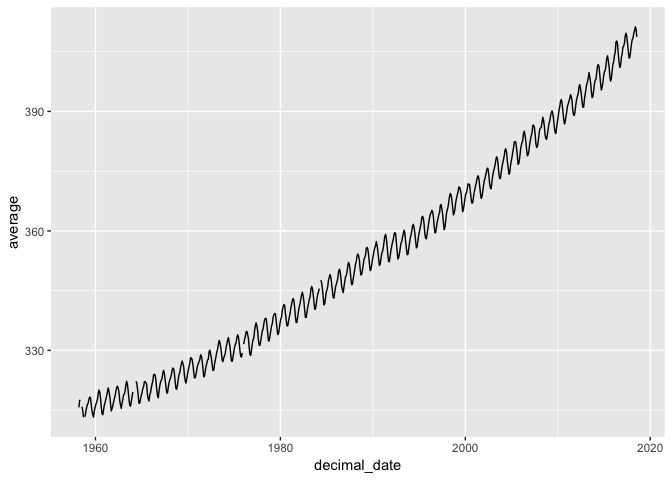
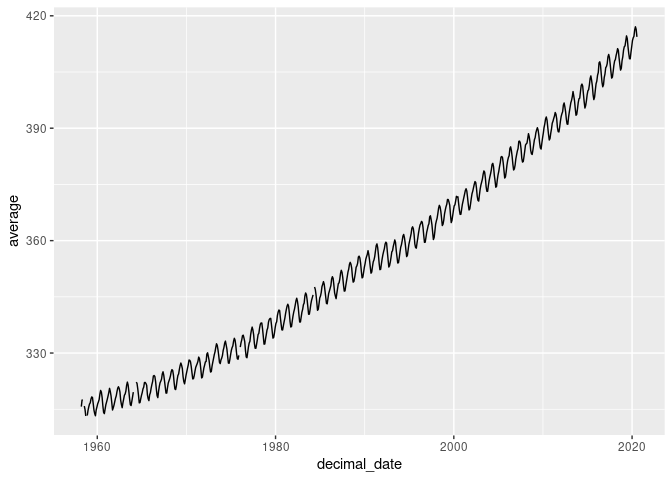
Try1

diff --git a/assignment/climate.md b/assignment/climate.md
@@ -18,7 +18,7 @@ library(tidyverse)
 
 ``` r
 co2 <- 
-read_table("ftp://aftp.cmdl.noaa.gov/products/trends/co2/co2_mm_mlo.txt", 
+read_table("https://raw.githubusercontent.com/espm-157/climate-template/master/assignment/co2_mm_mlo.txt", 
                   comment="#",
                   col_names = c("year", "month", "decimal_date", "average",
                                 "interpolated", "trend", "days"),
@@ -26,9 +26,9 @@ read_table("ftp://aftp.cmdl.noaa.gov/products/trends/co2/co2_mm_mlo.txt",
 co2
 ```
 
-    ## # A tibble: 725 x 7
+    ## # A tibble: 749 x 7
     ##     year month decimal_date average interpolated trend  days
-    ##    <int> <int>        <dbl>   <dbl>        <dbl> <dbl> <int>
+    ##    <dbl> <dbl>        <dbl>   <dbl>        <dbl> <dbl> <dbl>
     ##  1  1958     3        1958.    316.         316.  315.    NA
     ##  2  1958     4        1958.    317.         317.  315.    NA
     ##  3  1958     5        1958.    318.         318.  315.    NA
@@ -39,7 +39,7 @@ co2
     ##  8  1958    10        1959.     NA          313.  316.    NA
     ##  9  1958    11        1959.    313.         313.  315.    NA
     ## 10  1958    12        1959.    315.         315.  316.    NA
-    ## # ... with 715 more rows
+    ## # … with 739 more rows
 
 ``` r
 ggplot(co2, aes(x = decimal_date, y = average)) + geom_line() 
@@ -48,6 +48,20 @@ ggplot(co2, aes(x = decimal_date, y = average)) + geom_line()
 ![](climate_files/figure-gfm/unnamed-chunk-3-1.png)<!-- -->
 
 Which months are the CO2 values at the maximum? Minimum? Why is this?
+
+Maximum: 5, 6 Minimum Range 9, 10,
+
+Much of this variation happens because of the role of plants in the
+carbon cycle. Plants extract CO2 from the atmosphere, along with
+sunlight and water, to make food and other substances that they need to
+grow.CO2 in the atmosphere decreases during the growing season and
+increases during the rest of the year, which leads to maximum buildup in
+April and May before photosynthesis begins to take over in the summer
+time. Photosynthesis, in which plants take up CO2 from the atmosphere
+and release oxygen, dominates during the growing season (the warmer part
+of the year). Respiration, by which plants and animals take up oxygen
+and release CO2, occurs all the time but dominates during the colder
+months of the year.
 
 What rolling average is used in computing the “trend” line? How does the
 trend depend on the rolling average?
@@ -79,10 +93,51 @@ Construct the necessary R code to import and prepare for manipulation
 the following data set:
 <http://climate.nasa.gov/system/internal_resources/details/original/647_Global_Temperature_Data_File.txt>
 
+``` r
+temperature <- read_table(
+  "http://climate.nasa.gov/system/internal_resources/details/original/647_Global_Temperature_Data_File.txt",
+  skip = 5,
+  col_names = c("year","no_smoothing","lowess"))
+```
+
+    ## Parsed with column specification:
+    ## cols(
+    ##   year = col_double(),
+    ##   no_smoothing = col_double(),
+    ##   lowess = col_double()
+    ## )
+
+``` r
+temperature
+```
+
+    ## # A tibble: 140 x 3
+    ##     year no_smoothing lowess
+    ##    <dbl>        <dbl>  <dbl>
+    ##  1  1880        -0.16  -0.08
+    ##  2  1881        -0.07  -0.12
+    ##  3  1882        -0.1   -0.16
+    ##  4  1883        -0.17  -0.19
+    ##  5  1884        -0.28  -0.23
+    ##  6  1885        -0.32  -0.25
+    ##  7  1886        -0.3   -0.26
+    ##  8  1887        -0.35  -0.26
+    ##  9  1888        -0.16  -0.26
+    ## 10  1889        -0.09  -0.25
+    ## # … with 130 more rows
+
 ## Question 3:
 
 Plot the trend in global mean temperatures over time. Describe what you
 see in the plot and how you interpret the patterns you observe.
+
+``` r
+temperature %>%
+  ggplot(aes(x = year, y = no_smoothing))+
+  geom_point(aes(y = lowess))
+```
+
+![](climate_files/figure-gfm/unnamed-chunk-5-1.png)<!-- -->
 
 ## Question 4: Evaluating the evidence for a “Pause” in warming?
 
@@ -126,14 +181,67 @@ your arguments?
   - What is the uncertainty in measurment? Resolution of the data?
     Interpretation of missing values?
 
+There are three columns iin the table. i) ‘Time’ in units of ‘year-day’
+ii) ‘greenland\_mass’ in units of ‘Gt’ iii) ‘antarctica\_mass’ in units
+of ‘Gt’
+
+The numbers are from Ice mass measurement by NASA’s GRACE satellites.
+The uncertainty depends on the accuracy of the satellites. The missing
+values indicate a gap between missions during that time.
+
 ## Question 2:
 
 Construct the necessary R code to import this data set as a tidy `Table`
 object.
 
+``` r
+ice <- read_csv("http://climate.nasa.gov/system/internal_resources/details/original/499_GRN_ANT_mass_changes.csv",skip = 10,
+                col_names = c("time","greenland_mass","antarctica_mass"))
+```
+
+    ## Parsed with column specification:
+    ## cols(
+    ##   time = col_double(),
+    ##   greenland_mass = col_double(),
+    ##   antarctica_mass = col_double()
+    ## )
+
+``` r
+ice
+```
+
+    ## # A tibble: 140 x 3
+    ##     time greenland_mass antarctica_mass
+    ##    <dbl>          <dbl>           <dbl>
+    ##  1 2002.          1491.            967.
+    ##  2 2002.          1486.            979.
+    ##  3 2003.          1287.            512.
+    ##  4 2003.          1258.            859.
+    ##  5 2003.          1257.            694.
+    ##  6 2003.          1288.            592.
+    ##  7 2003.          1337.            658.
+    ##  8 2003.          1354.            477.
+    ##  9 2003.          1363.            546.
+    ## 10 2003.          1427.            494.
+    ## # … with 130 more rows
+
 ## Question 3:
 
 Plot the data and describe the trends you observe.
+
+``` r
+ice %>%
+  ggplot(aes(x = time)) + 
+  geom_point(aes(y = greenland_mass), col="blue") +
+  geom_point(aes(y = antarctica_mass), col = "green")
+```
+
+![](climate_files/figure-gfm/unnamed-chunk-7-1.png)<!-- -->
+
+The trend is that both ice mass are decreasing and in each year, there
+is a wave-like shape, meaning a decrease in summer and an increase in
+winter. However, greenland\_mass is decreasing at a faster rate than
+antarctica mass.
 
 # Exercise III: Rising Sea Levels?
 
@@ -153,10 +261,65 @@ Plot the data and describe the trends you observe.
 Construct the necessary R code to import this data set as a tidy `Table`
 object.
 
+``` r
+sea_level <- read_table("http://climate.nasa.gov/system/internal_resources/details/original/121_Global_Sea_Level_Data_File.txt",
+                        skip = 50,
+                        col_names = c("altimeter_type","merged_file_cycle","number_of_observations","number_of_weighted_observations",
+                                      "gmsl_variation_adjustment_not_applied","standard_deviation_of_gmsl_variation_no_adjustment",
+                                      "gmsl_variation_adjustment_applied","standard_deviation_of_gmsl_adjustment",
+                                      "smoothed_gmsl_variation","smoothed_gmsl_variation_removed_signal"))
+```
+
+    ## Parsed with column specification:
+    ## cols(
+    ##   altimeter_type = col_double(),
+    ##   merged_file_cycle = col_double(),
+    ##   number_of_observations = col_double(),
+    ##   number_of_weighted_observations = col_double(),
+    ##   gmsl_variation_adjustment_not_applied = col_double(),
+    ##   standard_deviation_of_gmsl_variation_no_adjustment = col_double(),
+    ##   gmsl_variation_adjustment_applied = col_double(),
+    ##   standard_deviation_of_gmsl_adjustment = col_double(),
+    ##   smoothed_gmsl_variation = col_double(),
+    ##   smoothed_gmsl_variation_removed_signal = col_double()
+    ## )
+
+``` r
+sea_level
+```
+
+    ## # A tibble: 844 x 10
+    ##    altimeter_type merged_file_cyc… number_of_obser… number_of_weigh…
+    ##             <dbl>            <dbl>            <dbl>            <dbl>
+    ##  1              0               14            1993.           419112
+    ##  2              0               15            1993.           456793
+    ##  3              0               16            1993.           414055
+    ##  4              0               17            1993.           465235
+    ##  5              0               18            1993.           463257
+    ##  6              0               19            1993.           458542
+    ##  7            999               20            1993.           464921
+    ##  8              0               21            1993.           459017
+    ##  9              0               22            1993.           467041
+    ## 10              0               23            1993.           464740
+    ## # … with 834 more rows, and 6 more variables:
+    ## #   gmsl_variation_adjustment_not_applied <dbl>,
+    ## #   standard_deviation_of_gmsl_variation_no_adjustment <dbl>,
+    ## #   gmsl_variation_adjustment_applied <dbl>,
+    ## #   standard_deviation_of_gmsl_adjustment <dbl>, smoothed_gmsl_variation <dbl>,
+    ## #   smoothed_gmsl_variation_removed_signal <dbl>
+
 ## Question 3:
 
-Plot the data and describe the trends you
-    observe.
+Plot the data and describe the trends you observe.
+
+``` r
+sea_level %>%
+  ggplot(aes(x = number_of_observations)) +
+  geom_point(aes(y = smoothed_gmsl_variation),col= "blue") +
+  geom_point(aes(y = smoothed_gmsl_variation_removed_signal),col= "red")
+```
+
+![](climate_files/figure-gfm/unnamed-chunk-9-1.png)<!-- -->
 
 # Exercise IV: Arctic Sea Ice?
 
@@ -174,6 +337,11 @@ Plot the data and describe the trends you
 
 Construct the necessary R code to import this data set as a tidy `Table`
 object.
+
+``` r
+#sea_ice <- read_csv("ftp://sidads.colorado.edu/DATASETS/NOAA/G02135/north/daily/data/N_seaice_extent_daily_v3.0.csv")
+#sea_ice
+```
 
 ## Question 3:
 
